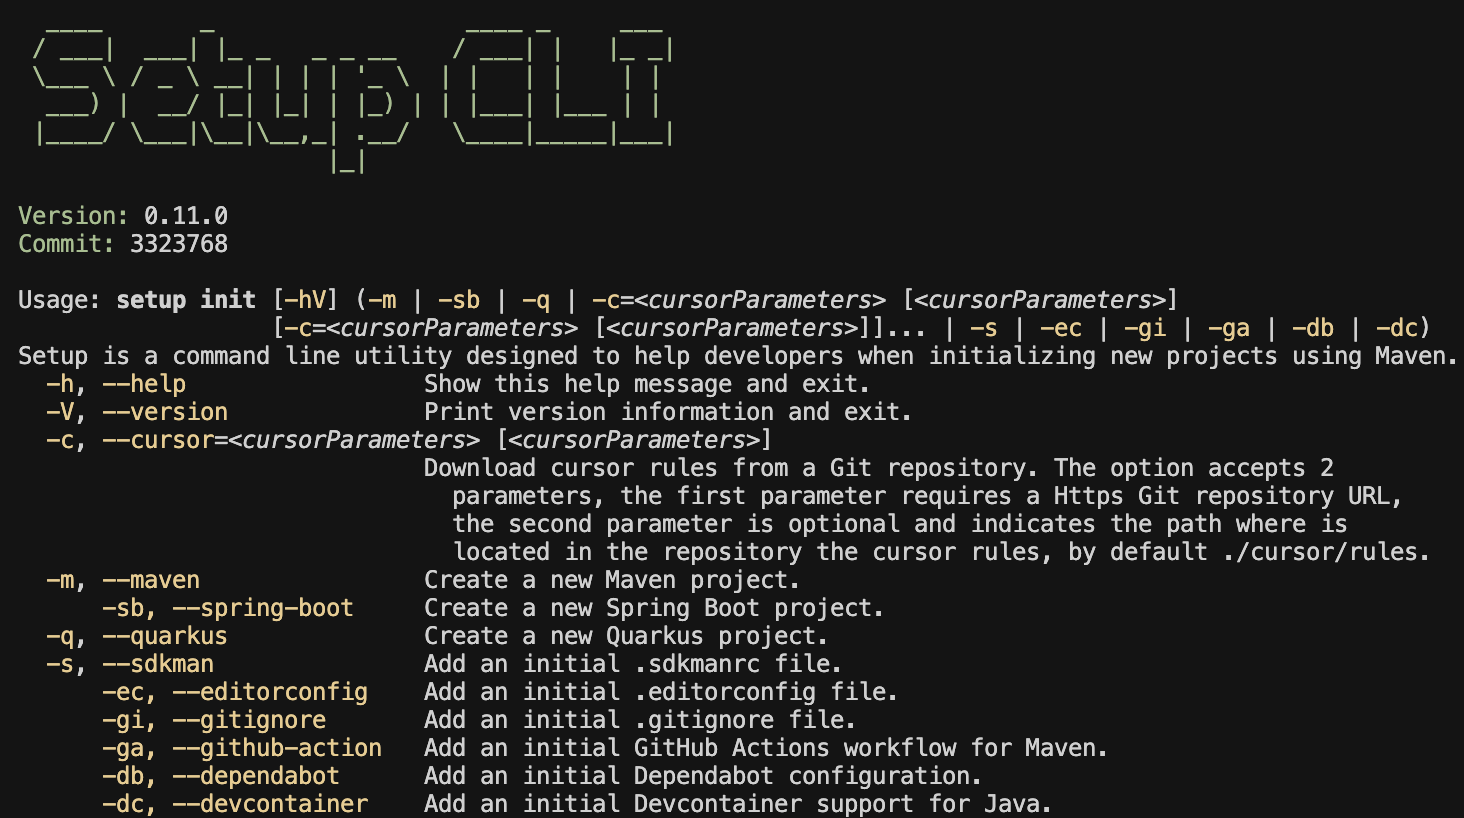
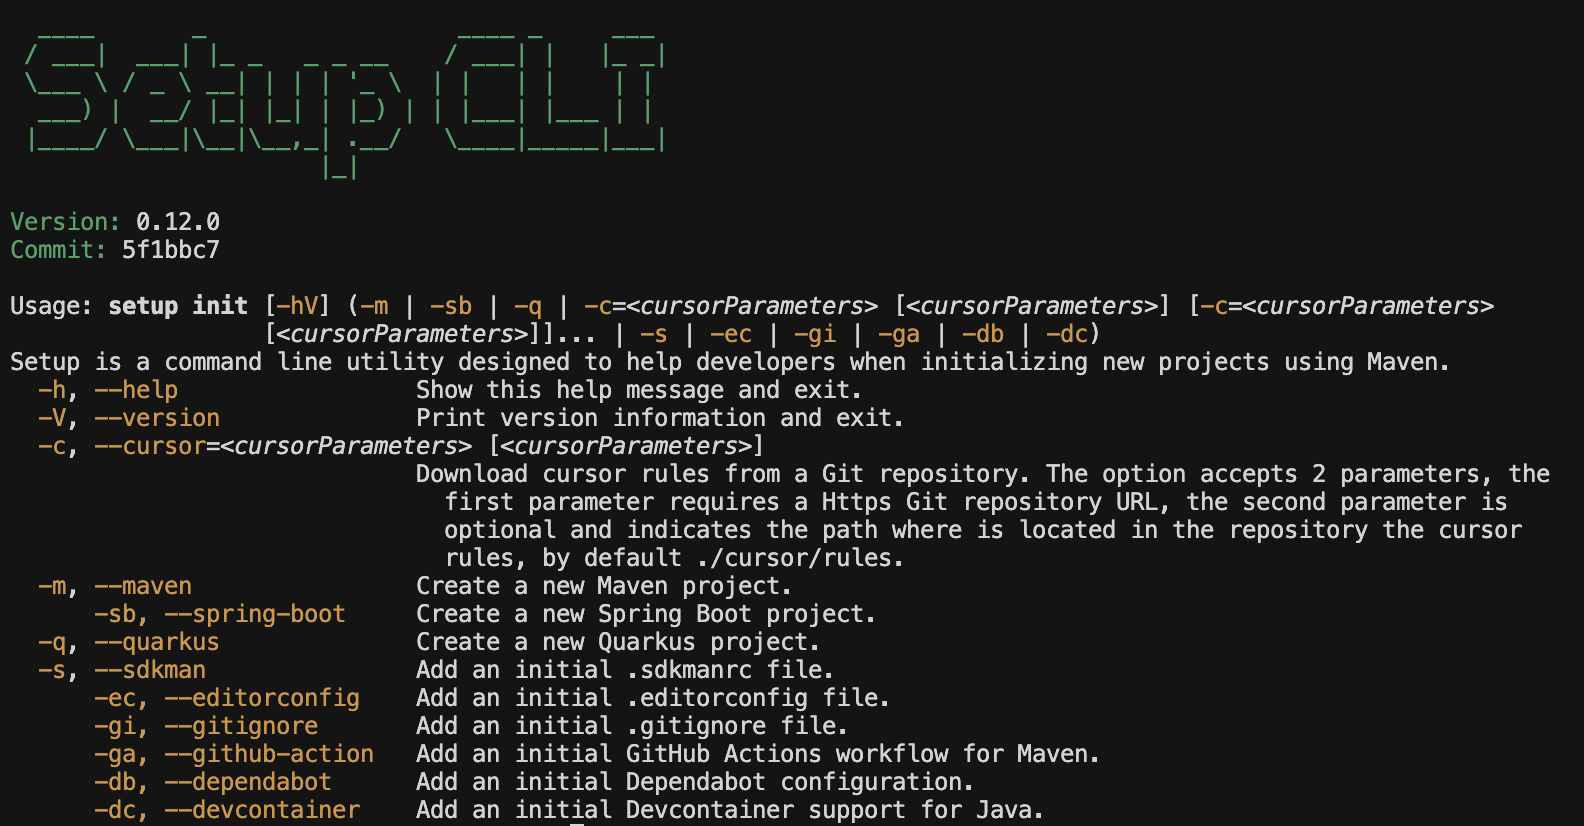
Small change (#176)
* Small change
* Adding some changes for release 0.12.0
* Update snapshot
* Update footer

Changed region(s): [[0.0, 0.2445, 1.0, 1.0], [0.0, 0.0306, 0.4611, 0.2139]]

diff --git a/README-DEV.md b/README-DEV.md
@@ -11,6 +11,7 @@ sdk env install
 ./mvnw clean validate -U
 ./mvnw buildplan:list-phase
 ./mvnw license:third-party-report
+
 jwebserver -p 8001 -d "$(pwd)/target/reports/"
 ./mvnw clean verify
 jwebserver -p 8001 -d "$(pwd)/target/timeline/"
@@ -30,7 +31,7 @@ jwebserver -p 8005 -d "$(pwd)/target/site/"
 ./mvnw versions:display-dependency-updates
 ./mvnw versions:display-plugin-updates
 
-./mvnw versions:set -DnewVersion=0.11.0
+./mvnw versions:set -DnewVersion=0.13.0-SNAPSHOT
 ./mvnw versions:commit
 ```
 
@@ -39,26 +40,26 @@ jwebserver -p 8005 -d "$(pwd)/target/site/"
 ```bash
 ./mvnw clean package
 ./mvnw clean package -DskipTests
-java -jar ./target/setup-0.12.0-SNAPSHOT.jar
-java -jar ./target/setup-0.12.0-SNAPSHOT.jar --help
-java -jar ./target/setup-0.12.0-SNAPSHOT.jar init
-java -jar ./target/setup-0.12.0-SNAPSHOT.jar init --help
-java -jar ./target/setup-0.12.0-SNAPSHOT.jar init --maven
-java -jar ./target/setup-0.12.0-SNAPSHOT.jar init --spring-boot
-java -jar ./target/setup-0.12.0-SNAPSHOT.jar init --quarkus
-java -jar ./target/setup-0.12.0-SNAPSHOT.jar init --cursor https://github.com/jabrena/cursor-rules-java
-java -jar ./target/setup-0.12.0-SNAPSHOT.jar init --cursor https://github.com/jabrena/cursor-rules-agile
-java -jar ./target/setup-0.12.0-SNAPSHOT.jar init --cursor https://github.com/snarktank/ai-dev-tasks .
-java -jar ./target/setup-0.12.0-SNAPSHOT.jar init --sdkman
-java -jar ./target/setup-0.12.0-SNAPSHOT.jar init --editorconfig
-java -jar ./target/setup-0.12.0-SNAPSHOT.jar init --github-action
-java -jar ./target/setup-0.12.0-SNAPSHOT.jar init --gitignore
-java -jar ./target/setup-0.12.0-SNAPSHOT.jar init --devcontainer
-java -jar ./target/setup-0.12.0-SNAPSHOT.jar init --dependabot
-java -jar ./target/setup-0.12.0-SNAPSHOT.jar init --visualvm
-java -jar ./target/setup-0.12.0-SNAPSHOT.jar init --jmc
+java -jar ./target/setup-0.12.0.jar
+java -jar ./target/setup-0.12.0.jar --help
+java -jar ./target/setup-0.12.0.jar init
+java -jar ./target/setup-0.12.0.jar init --help
+java -jar ./target/setup-0.12.0.jar init --maven
+java -jar ./target/setup-0.12.0.jar init --spring-boot
+java -jar ./target/setup-0.12.0.jar init --quarkus
+java -jar ./target/setup-0.12.0.jar init --cursor https://github.com/jabrena/cursor-rules-java
+java -jar ./target/setup-0.12.0.jar init --cursor https://github.com/jabrena/cursor-rules-agile
+java -jar ./target/setup-0.12.0.jar init --cursor https://github.com/snarktank/ai-dev-tasks .
+java -jar ./target/setup-0.12.0.jar init --sdkman
+java -jar ./target/setup-0.12.0.jar init --editorconfig
+java -jar ./target/setup-0.12.0.jar init --github-action
+java -jar ./target/setup-0.12.0.jar init --gitignore
+java -jar ./target/setup-0.12.0.jar init --devcontainer
+java -jar ./target/setup-0.12.0.jar init --dependabot
+java -jar ./target/setup-0.12.0.jar init --visualvm
+java -jar ./target/setup-0.12.0.jar init --jmc
 
-jar tf ./target/setup-0.12.0-SNAPSHOT.jar
+jar tf ./target/setup-0.12.0.jar
 ```
 
 ## Release process

diff --git a/MAINTENANCE.md b/MAINTENANCE.md
@@ -1,0 +1,35 @@
+# Maintenance
+
+Some **User prompts** designed to help in the maintenance of this repository.
+
+```bash
+# Prompt to provide a release changelog
+Can you update the current changelog for 0.12.0 comparing git commits in relation to 0.9.0 tag. Use  @https://keepachangelog.com/en/1.1.0/  rules
+
+#Bump to a new snapshot
+@resources/ update version to 0.13.0-SNAPSHOT and pom.xml and maven modules
+```
+
+## Release process
+
+- [ ] Run regression tests
+- [ ] Update changelog
+- [ ] Remove SNAPSHOT from .md & pom.xml
+- [ ] Last review in docs (Manual)
+- [ ] Review git changes for hidden issues (Manual) https://github.com/jabrena/setup-cli/compare/0.11.0...feature/release
+- [ ] Tag repository
+- [ ] Create release
+- [ ] Update https://github.com/jabrena/jbang-catalog
+
+
+---
+
+```bash
+# Prompt to provide a release changelog
+Can you update the current changelog for 0.12.0 comparing git commits in relation to 0.11.0 tag. Use  @https://keepachangelog.com/en/1.1.0/  rules
+
+## Tagging process
+git tag --list
+git tag 0.11.0
+git push --tags
+```

diff --git a/README.md b/README.md
@@ -110,15 +110,12 @@ Review this [document](./README-DEV.md)
 ## Cursor rules ecosystem
 
 - https://github.com/jabrena/101-cursor
-- https://github.com/jabrena/cursor-rules-methodology
+- https://github.com/jabrena/pml
 - https://github.com/jabrena/cursor-rules-agile
 - https://github.com/jabrena/cursor-rules-java
 - https://github.com/jabrena/cursor-rules-spring-boot
-- https://github.com/jabrena/cursor-rules-examples
-- https://github.com/jabrena/cursor-rules-sandbox
 - https://github.com/jabrena/plantuml-to-png-cli
 - https://github.com/jabrena/setup-cli
-- https://github.com/jabrena/jbang-catalog
 
-Powered by [Cursor](https://www.cursor.com/)
+Powered by [Cursor](https://www.cursor.com/) with ❤ from [Madrid](https://www.google.com/maps/place/Community+of+Madrid,+Madrid/@40.4983324,-6.3162283,8z/data=!3m1!4b1!4m6!3m5!1s0xd41817a40e033b9:0x10340f3be4bc880!8m2!3d40.4167088!4d-3.5812692!16zL20vMGo0eGc?entry=ttu&g_ep=EgoyMDI1MDgxOC4wIKXMDSoASAFQAw%3D%3D)
 

diff --git a/CHANGELOG.md b/CHANGELOG.md
@@ -5,6 +5,17 @@ All notable changes to this project will be documented in this file.
 The format is based on [Keep a Changelog](https://keepachangelog.com/en/1.1.0/),
 and this project adheres to [Semantic Versioning](https://semver.org/spec/v2.0.0.html).
 
+## [0.12.0] 2025/10/02
+
+### Changed
+
+- Updated dependencies and build plugins:
+- Minor internal refinements
+
+### Fixed
+
+- Addressed build stability issues
+
 ## [0.11.0] 2025/06/03
 
 ### Added
